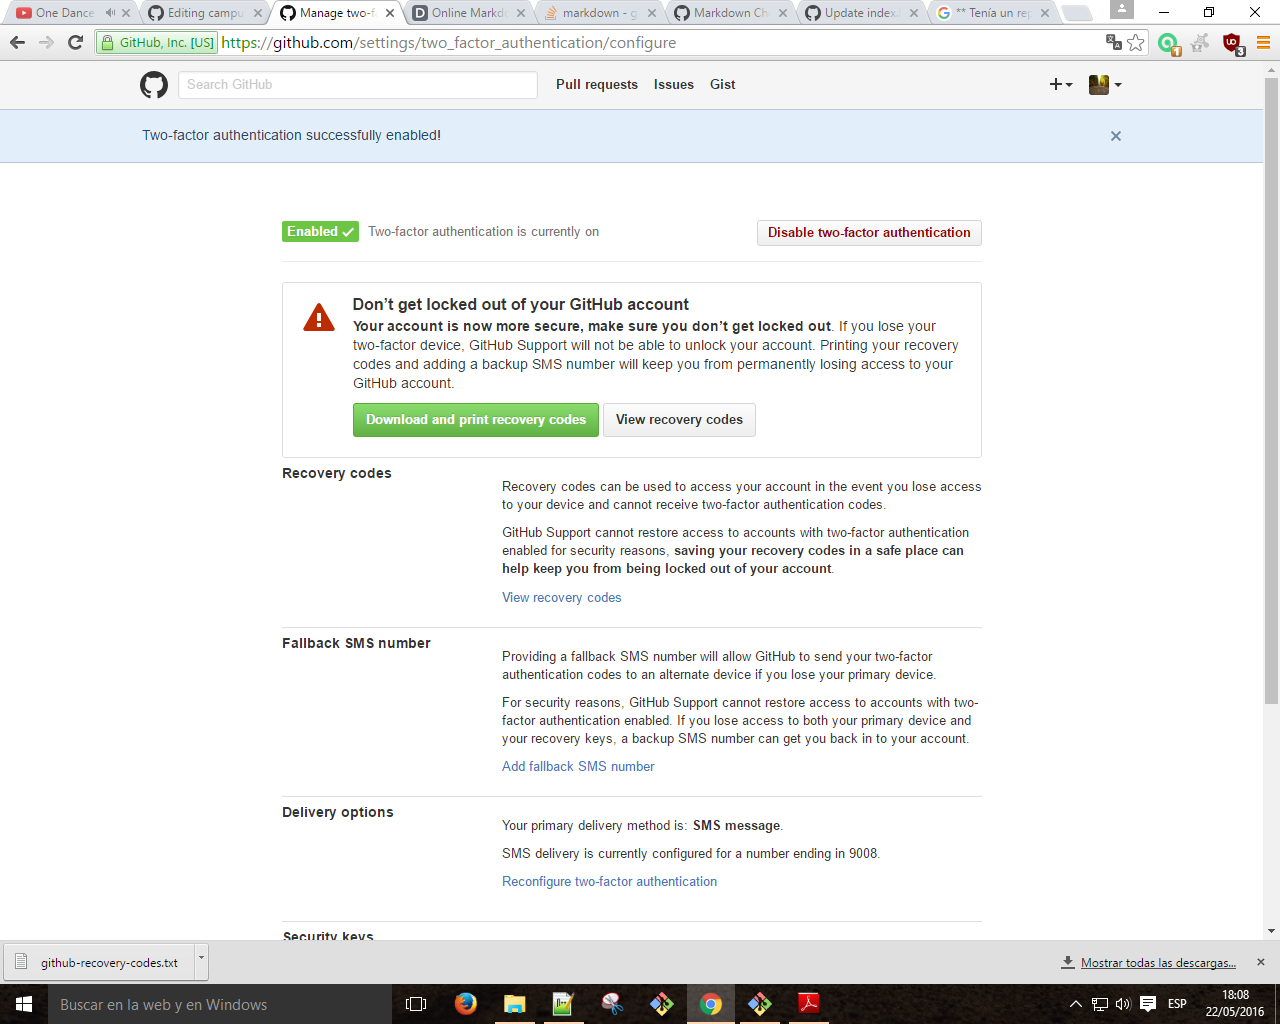
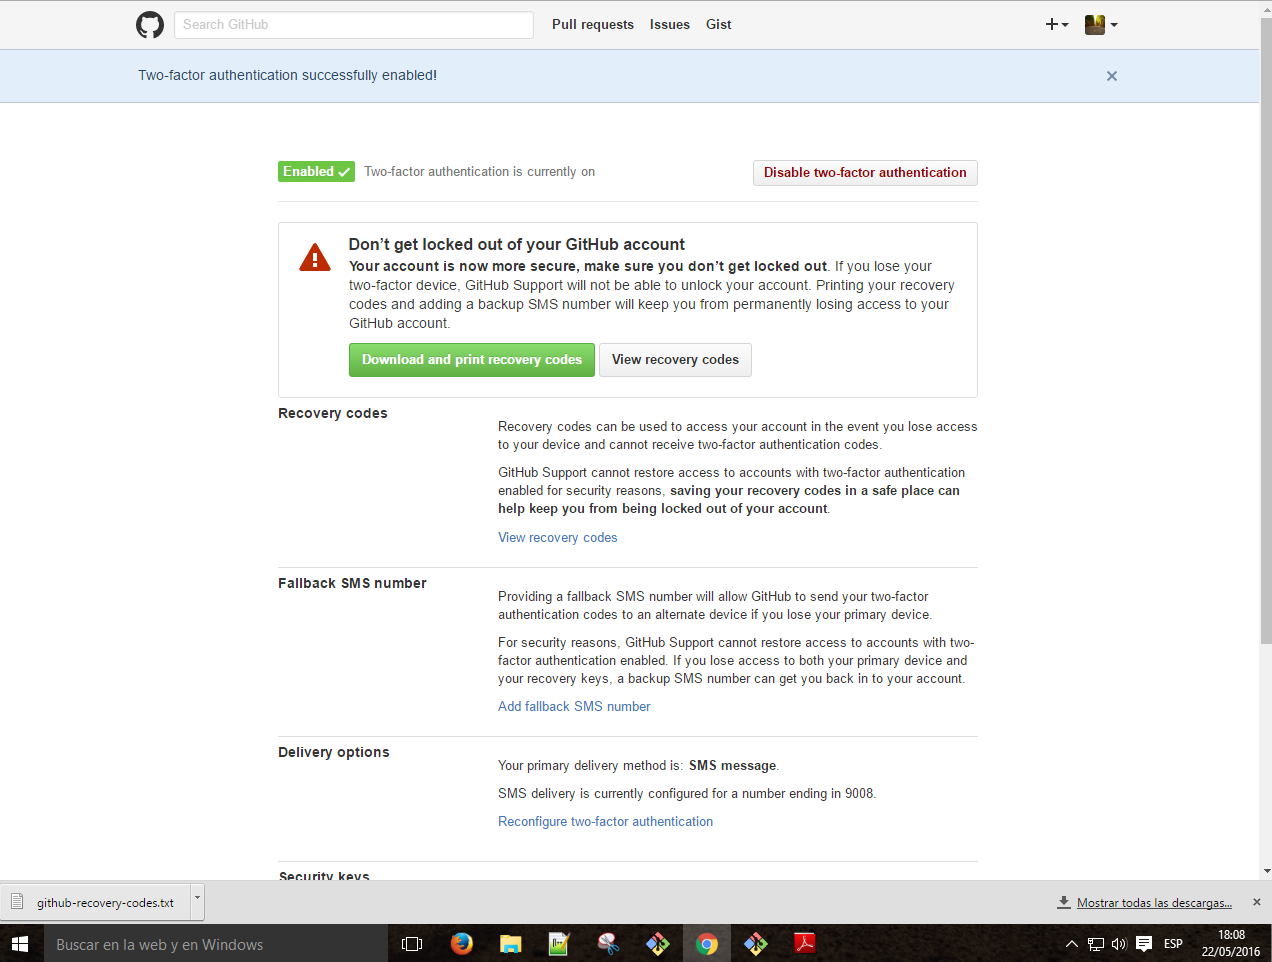
Casi definitivos los ejercicios aunque por revisar

diff --git a/README.md b/README.md
@@ -78,13 +78,23 @@ Para poner una foto en el perfil de GitHub, hay que entrar en las opciones del p
 ![Mi foto](https://avatars0.githubusercontent.com/u/19300313?v=3&s=460)
 
 ## Doble factor de autentificación
-El doble factor de autentificación permite que nuestra cuenta sea más segura. El procedimiento para realizarlo es sencillo. Entramos en: Perfil/Settings/Security/Two-factor authentication, y entrar al botón Set up two-factor authentification.
+El doble factor de autentificación permite que nuestra cuenta sea más segura. El procedimiento para realizarlo es sencillo. Entramos en: Perfil/Settings/Security/Two-factor authentication, y entrar al botón Set up two-factor authentication.
 
-Después se puede optar a recibir un código desde la aplicación de GitHub o por SMS. En mi caso, he escogido la opción del SMS.
+![TwoFactorAuth](https://github.com/jorgemaza/campusciff/blob/master/img/TwoFactorAuth.PNG)
 
-Introducir el código recibido al mensaje del teléfono móvil.
+Puede optarse por recibir un código desde la aplicación de GitHub o por SMS. En este caso, se ha escogido la opción del SMS.
 
-Finalizar descargando el github-recovery-code
+![TwoFactorAuth2](https://github.com/jorgemaza/campusciff/blob/master/img/TwoFactorAuth2.PNG)
+
+Introducir el código recibido al mensaje del teléfono móvil y finalizar descargando el github-recovery-code.
+
+![RecoveryCode](https://github.com/jorgemaza/campusciff/blob/master/img/RecoveryCode.PNG)
+
+El recovery code permite que si perdemos los datos de la cuenta podamos recuperarla. 
+
+GitHub enviará otro SMS si la doble autentificación ha funcionado satisfactoriamente.
+
+> You have successfully configured GitHub two-factor authentication. You will receive two-factor codes at this number.
 
 ## Añadir la clave pública correspondiente a nuestro ordenador.
 
